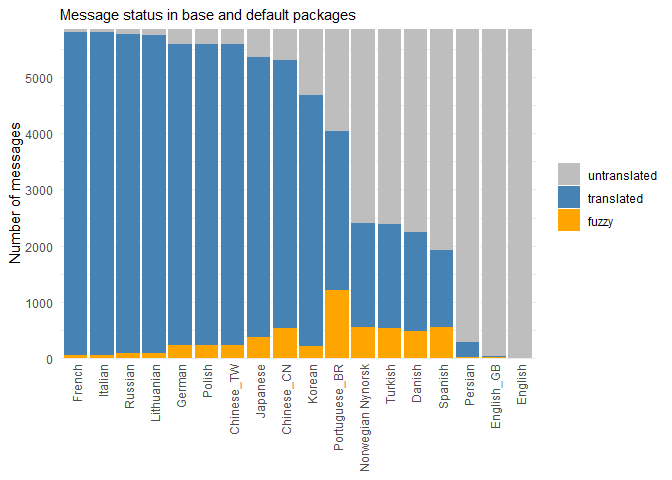
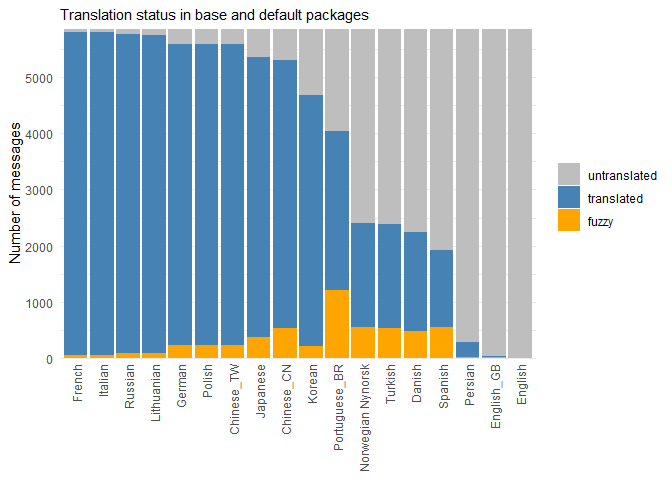
updated plots for blog post

Changed region(s): [[0.0938, 0.0, 0.5625, 0.0625]]

diff --git a/collaboration_campfires/translations/blog.md b/collaboration_campfires/translations/blog.md
@@ -5,10 +5,12 @@ Plots for blog post
 library(dplyr)
 library(forcats)
 library(ggplot2)
+library(lubridate)
 library(readr)
 ```
 
 ``` r
+metadata <- read_csv("metadata.csv")
 message_status <- read_csv("message_status.csv")
 ```
 
@@ -26,12 +28,86 @@ tally_status <- message_status |>
 ggplot(tally_status, aes(fill = group, x = fct_inorder(language), y = n)) +
     geom_bar(stat = "identity", position = "stack") +
     labs(x = NULL, y = "Number of messages",
-         subtitle = "Message status in base and default packages") + 
+         subtitle = "Translation status in base and default packages") + 
     scale_fill_manual(values = c("grey", "steelblue", "orange")) + 
     scale_y_continuous(expand = c(0, 0)) +
-    theme_minimal()+
+    theme_minimal() +
     theme(axis.text.x = element_text(angle = 90, vjust = 0.5, hjust = 1),
           legend.title=element_blank())
 ```
 
 ![](blog_files/figure-gfm/message_status_plot-1.png)<!-- -->
+
+``` r
+xtabs(!is.na(po_file) ~ language + component, metadata)
+```
+
+    ##                    component
+    ## language             C  R RGui
+    ##   Chinese_CN        10 13    1
+    ##   Chinese_TW        11 13    1
+    ##   Danish            10 13    1
+    ##   English            1  0    0
+    ##   English_GB         2  1    0
+    ##   French            11 13    1
+    ##   German            11 13    1
+    ##   Italian           11 13    1
+    ##   Japanese           9 12    1
+    ##   Korean            11 13    1
+    ##   Lithuanian        11 13    1
+    ##   Norwegian Nynorsk  2  1    1
+    ##   Persian            1  2    1
+    ##   Polish            11 13    1
+    ##   Portuguese_BR      9 12    1
+    ##   Russian           11 13    1
+    ##   Spanish            2  0    1
+    ##   Turkish            2  5    1
+
+Looking into date of last translation (what happened to Italian,
+Korean,…?)
+
+``` r
+metadata <-  metadata |>
+    mutate(diff_date = interval(pot_creation_date, po_revision_date) %/% years(1))
+ggplot(na.omit(metadata), aes(x = fct_reorder(language, diff_date, .fun = mean, 
+                                              .desc = TRUE), y = diff_date)) +
+    geom_jitter(width = 0.3) +
+    labs(x = NULL, y = "Lag (years)",
+         subtitle = "Lag in translating messages") + 
+    theme_minimal() + 
+    theme(axis.text.x = element_text(angle = 90, vjust = 0.5, hjust = 1))
+```
+
+![](blog_files/figure-gfm/update_plot-1.png)<!-- --> Coverage by package
+(Korean has some of all)
+
+Norwegian and Spanish - only base and graphics Turkish - plus stats and
+stats4 Portuguese and Danish - some of all packages, but in some cases
+only a small proportion: utils and tools
+
+``` r
+select_lang <- c("Norwegian Nynorsk", "Portuguese_BR", 
+                           "Turkish", "Danish", "Spanish")
+tally_status <- message_status |>
+    filter(language %in% select_lang) |>
+    mutate(language = factor(language, levels = select_lang),
+           group = ifelse(fuzzy, "fuzzy", 
+                          ifelse(translated, "translated",
+                                 "untranslated")),
+           group = factor(group, levels = c("untranslated", "translated", "fuzzy"))) |>
+    group_by(language, package, group) |>
+    tally() |>
+    arrange(group, n)
+ggplot(tally_status, aes(fill = group, x = fct_inorder(language), y = n)) +
+    geom_bar(stat = "identity", position = "stack") +
+    facet_wrap(~ package, scale = "free_y") + 
+    labs(x = NULL, y = "Number of messages",
+         subtitle = "Translation status for low coverage languages") + 
+    scale_fill_manual(values = c("grey", "steelblue", "orange")) + 
+    scale_y_continuous(expand = c(0, 0)) +
+    theme_minimal() +
+    theme(axis.text.x = element_text(angle = 90, vjust = 0.5, hjust = 1),
+          legend.title=element_blank())
+```
+
+![](blog_files/figure-gfm/status_by_package-1.png)<!-- -->
